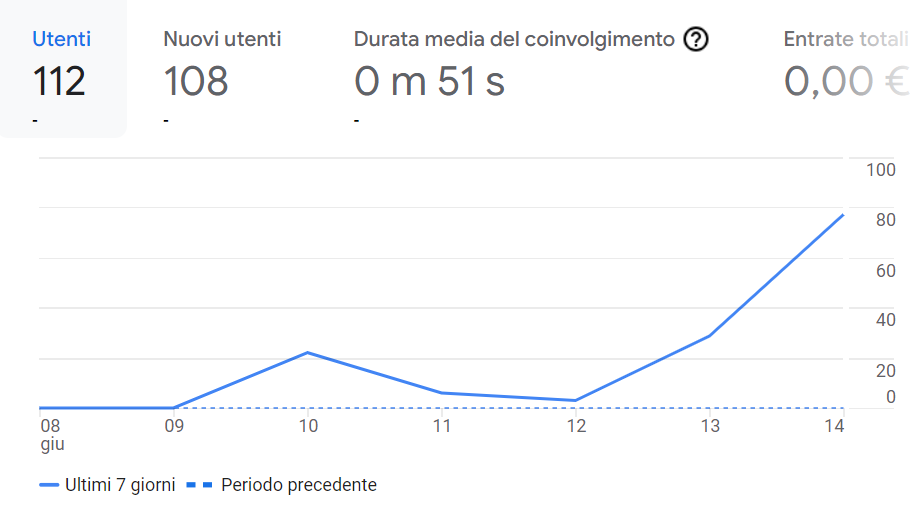
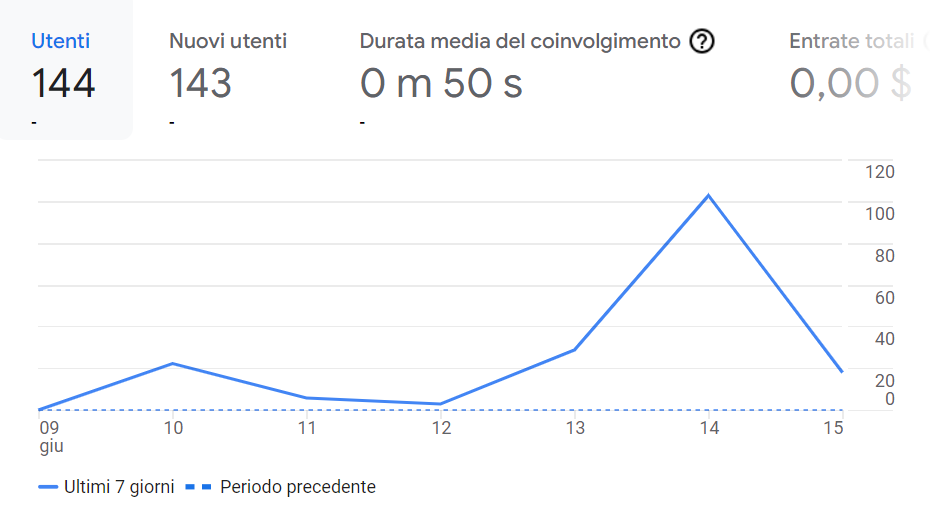
Add files via upload

diff --git a/documentazione.html b/documentazione.html
@@ -141,7 +141,7 @@ body {font-size:16px; background-color: black; color: white}
       
       <img src="images/wireframe2.jpg" style="width:50%" onclick="onClick(this)" alt="Wireframe pagina Documentazione">
       
-      <h4><b>Look and feel</b></h4>
+      <h3><b>Look and feel</b></h3>
       <p>Per la scelta dei fonts ho usato Google Fonts e la mia scelta è ricaduta su Roboto <i>(sans serif)</i>.</p>
       <p>Per la scelta dei colori ho usato il sito Color-Name per il grigio elettrico, e ho impostato il nero per la scelta del colore del background.</p> 
 
@@ -167,7 +167,7 @@ body {font-size:16px; background-color: black; color: white}
       <div class="w3-container" style="margin-top:75px">
       <h2 class="w3-xxxlarge w3-text-red"><b>Communication Strategy.</b></h2>
       <hr style="width:50px;border:5px solid #A5ADAD" class="w3-round">
-      <h3><b>Communication Strategy</b></h3>
+
       <h3><p>Background</p></h3>
       <p>I siti competitors ritengo presentino descrizioni troppo lunghe e dispersive che non rispettano il fenomeno F-pattern, ovvero una modalità di scansione della pagina web più simile a una lettera F, considerando anche che i contenuti vengono letti con estrema velocità ritengo che questi competitors si dilunghino in maniera esagerata. Il primo si appoggia ai social media per la comunicazione, e non ritengo che ciò sia una cattiva idea, anzi, bensì molto efficace, per tenere continuamente aggiornato anche il sito web. Ispezionando il web, mi sono resa conto che non molti beatmakers hanno un proprio sito ufficiale, e creare quindi un sito efficace, sintetico e che abbia tutte le informazioni rilevanti sui due artisti, reputo sia una buona presentazione.
       </p>
@@ -178,7 +178,7 @@ body {font-size:16px; background-color: black; color: white}
 
       <h3><b>Target audience e messaggio</b></h3>
       <p>La target audience è under 30 perché credo coinvolga più persone giovani. Solitamente, questo target di riferimento è raggiungibile tramite social media, o eventi programmati; un target secondario potrebbe coinvolgere persone di un’età più avanzata, dai 30 in su senza un margine di età, perché ritengo che come genere di musica possa comprendere molte generazioni.
-        Sarebbe bello se il target audience si allargasse, raggiungendo persone di tutte le età, sia musicisti che semplici ascoltatori.
+      Sarebbe bello se il target audience si allargasse, raggiungendo persone di tutte le età, sia musicisti che semplici ascoltatori.
 
       </p>
 
@@ -187,7 +187,7 @@ body {font-size:16px; background-color: black; color: white}
       </p>
       
       <h3><b>Valutazione dei risultati</b></h3>
-      <p>Attraverso Google Analytics ho tenuto traccia delle visualizzazioni al sito web, che grazie alla condivisione su Instagram e su Whatsapp ha raggiunto 112 visualizzazioni, raggiungendo e superando l'obiettivo che mi ero posta.
+      <p>Attraverso Google Analytics ho tenuto traccia delle visualizzazioni al sito web, che grazie alla condivisione su Instagram e su Whatsapp ha raggiunto 144 visualizzazioni, raggiungendo e superando l'obiettivo che mi ero posta.
       </p>
 
 

diff --git a/index.html b/index.html
@@ -19,6 +19,7 @@
 <link rel="preconnect" href="https://fonts.googleapis.com">
 <link rel="preconnect" href="https://fonts.gstatic.com" crossorigin>
 <link href="https://fonts.googleapis.com/css2?family=Roboto:wght@100;500&display=swap" rel="stylesheet">
+
 <!-- CSS Principale -->
 <link rel="stylesheet" type="text/css" href="css/style.css"> 
 <!-- CSS per Social Media -->
@@ -114,7 +115,7 @@ body {font-size:16px; background-color: black; color: white}
     <h1 class="w3-xxxlarge w3-text-red"><b>Chi Siamo</b></h1>
     <hr style="width:50px;border:5px solid #A5ADAD" class="w3-round">
     <p>Blade Production Music è un’etichetta discografica nata nel 2022 composta da Riccardo Beltrandi e Andrea Migliori, e ha sede in un piccolo studio di produzione nella provincia di Bologna.</p>
-    <p>Riccardo e Andrea sono nati in provincia di Bologna, rispettivamente nel 2001 e nel 1997. Appassionati di musica sin da piccoli, hanno iniziato a produrre all’età di 18 e 24 anni, iniziando così a sviluppare la loro vena artistica componendo beat di diversi generi per la produzione di pezzi trap e loro derivazioni.</p>
+    <p>Riccardo e Andrea sono nati in provincia di Bologna, rispettivamente nel 2001 e nel 1997. Appassionati di musica sin da piccoli hanno iniziato a produrre all’età di 18 e 24 anni, iniziando così a sviluppare la loro vena artistica componendo beat di diversi generi per la produzione di pezzi trap e loro derivazioni.</p>
     <p>Nel 2022 collaborano per la produzione di un beat che farà da base alla canzone <i>Integral</i> di GLC.</p>
     <p>BPM segue tutte le fasi operative di creazione musicale e compone basi professionali nell’ambito musicale hip-hop e generi affini.</p>
     <p> Il futuro di BPM li vedrà impegnati in una sempre maggiore apertura ai mercati musicali internazionali.</p>
@@ -158,7 +159,6 @@ body {font-size:16px; background-color: black; color: white}
     Your browser does not support the audio element.
     </audio>
     </div>
-
 
   </div>
 

diff --git a/style.css b/style.css
@@ -129,7 +129,7 @@ hr{border:0;border-top:1px solid #eee;margin:20px 0}
 .w3-greyscale,.w3-grayscale{filter:grayscale(75%)}.w3-greyscale-min,.w3-grayscale-min{filter:grayscale(50%)}
 .w3-sepia{filter:sepia(75%)}.w3-sepia-max,.w3-hover-sepia:hover{filter:sepia(100%)}.w3-sepia-min{filter:sepia(50%)}
 .w3-tiny{font-size:10px!important}.w3-small{font-size:12px!important}.w3-medium{font-size:15px!important}.w3-large{font-size:18px!important}
-.w3-xlarge{font-size:24px!important}.w3-xxlarge{font-size:36px!important}.w3-xxxlarge{font-size:48px!important}.w3-jumbo{font-size:64px!important}
+.w3-xlarge{font-size:24px!important}.w3-xxlarge{font-size:36px!important}.w3-xxxlarge{font-size:48px!important}.w3-jumbo{font-size:6vw!important}
 .w3-left-align{text-align:left!important}.w3-right-align{text-align:right!important}.w3-justify{text-align:justify!important}.w3-center{text-align:center!important}
 .w3-border-0{border:0!important}.w3-border{border:1px solid #ccc!important}
 .w3-border-top{border-top:1px solid #ccc!important}.w3-border-bottom{border-bottom:1px solid #ccc!important}
